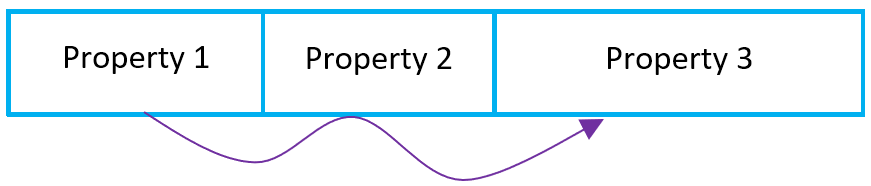
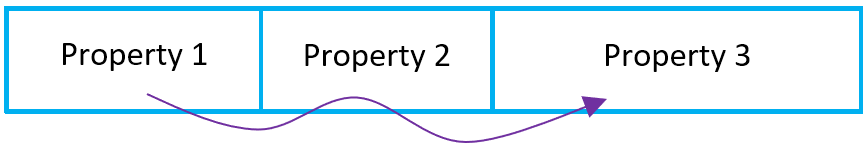
storage opt tweak

diff --git a/site-flare/Content/dev-java/storage-optimization.htm b/site-flare/Content/dev-java/storage-optimization.htm
@@ -6,9 +6,9 @@
         <h1>Storage Optimization</h1>
         <p>Storage Optimization is a feature of <MadCap:variable name="General.ProductNameIE" /> that reduces the memory footprint (RAM) of the the properties of a Space Object, with minimal impact on system performance.</p>
         <h1>How Does Storage Optimization Work?</h1>
-        <p>In order to reduce the system's RAM footprint, storage-optimized properties are  stored and packed together in a binary format. This reduces the amount of memory required for the fields.</p>
+        <p>In order to reduce the system's RAM footprint, storage-optimized properties are  stored and packed together in a binary format. This reduces the amount of memory required for the properties.</p>
         <h1>How to Decide Whether to Use Storage Optimization?</h1>
-        <p>The decision whether or not to use Storage Optimization is similar to how you decide whether to index a field.</p>
+        <p>The decision whether or not to use Storage Optimization is similar to how you decide whether to index a property.</p>
         <p>The reduced memory footprint achieved with Storage Optimization is most effective if the Space Object has a high proportion of non-indexed properties that are used primarily in read requests. Properties that are used in queries as keys or aggregated values may not benefit as much from Storage Optimization, due to the frequency of serialization-deserialization that is required.</p>
         <h1>How to Configure Storage Optimization?</h1>
         <p>Storage Optimization can be configured when the data is modeled using the Ops Manager user interface, or by specifying annotations in the Java code.</p>
@@ -17,24 +17,23 @@
         <p style="text-align: center;">
             <img src="../Resources/Static/images/storage-optimization-object-toggle.png" style="width: 829px;height: 441px;" />
         </p>
-        <p>Clicking on the toggle will select Storage Optimization for every non-indexed property in the object. You can then individually toggle each field to turn off Storage Optimize if desired.</p>
-        <h2>Implement Storage Optimization via the Java API</h2>
-        <h3>Storage Optimization Options: Selective Layout and Non-Selective Layout</h3>
+        <p>Clicking on the toggle will select Storage Optimization for every non-indexed property in the object. You can then individually toggle each property to turn off Storage Optimize if desired.</p>
+        <h2>Implement Storage Optimization via the Java API </h2>
+        <h3>Storage Optimization Options: Selective Layout and Non-Selective Layout </h3>
         <p>Two methods are available for Storage Optimization: the default of <b>Selective</b> (direct) Layout, and <b>Non-Selective</b> Layout.</p>
-        <p>With <b>Selective</b> (direct) layout, the header of the binary data includes pointers to allow direct access of each field. Selective layout reduces the CPU overhead of Storage Optimization, with a small increase in the memory footprint.</p>
+        <p>With <b>Selective</b> (direct) layout, the header of the binary data includes indexes to allow direct access of each property. Selective layout reduces the CPU overhead of Storage Optimization, with a small increase in the memory footprint.</p>
         <p>
-            <img src="../Resources/Static/images/storage-optimization-selective-aka-direct-layout.png" />
+            <img src="../Resources/Static/images/storage-optimization-selective-aka-direct-layout.png" style="width: 762px;height: 103px;" />
         </p>
         <p>With <b>Non-Selective</b> layout, the properties are stored in binary format, without any indexing mechanism. This means that, for example, in order to locate the third optimized property, the system must first pass through the first and second optimized properties. Selective layout minimizes the memory footprint, with a slight increase in CPU overhead.</p>
         <p>
-            <img src="../Resources/Static/images/storage-optimization-non-selective-aka-sequential-layout.png" />
+            <img src="../Resources/Static/images/storage-optimization-non-selective-aka-sequential-layout.png" style="width: 647px;height: 108px;" />
         </p>
-        <p>&#160;</p>
-        <div class="tc-admon-note">
-            <p>Storage Optimization Mode must be defined on the Object (class) level.</p>
-        </div>
         <div>
             <h3>Invoke Storage Optimization for a Class</h3>
+            <div class="tc-admon-note">
+                <p>Storage Optimization Mode must be defined on the Object (class) level.</p>
+            </div>
             <p>Storage Optimization is specified at the class level with either Selective optimization (the default), or Non-Selective optimization.</p>
             <div class="easyui-tabs" plain="true">
                 <div title="Annotate Class with Selective (Direct) Layout"><pre><code class="language-java">			
